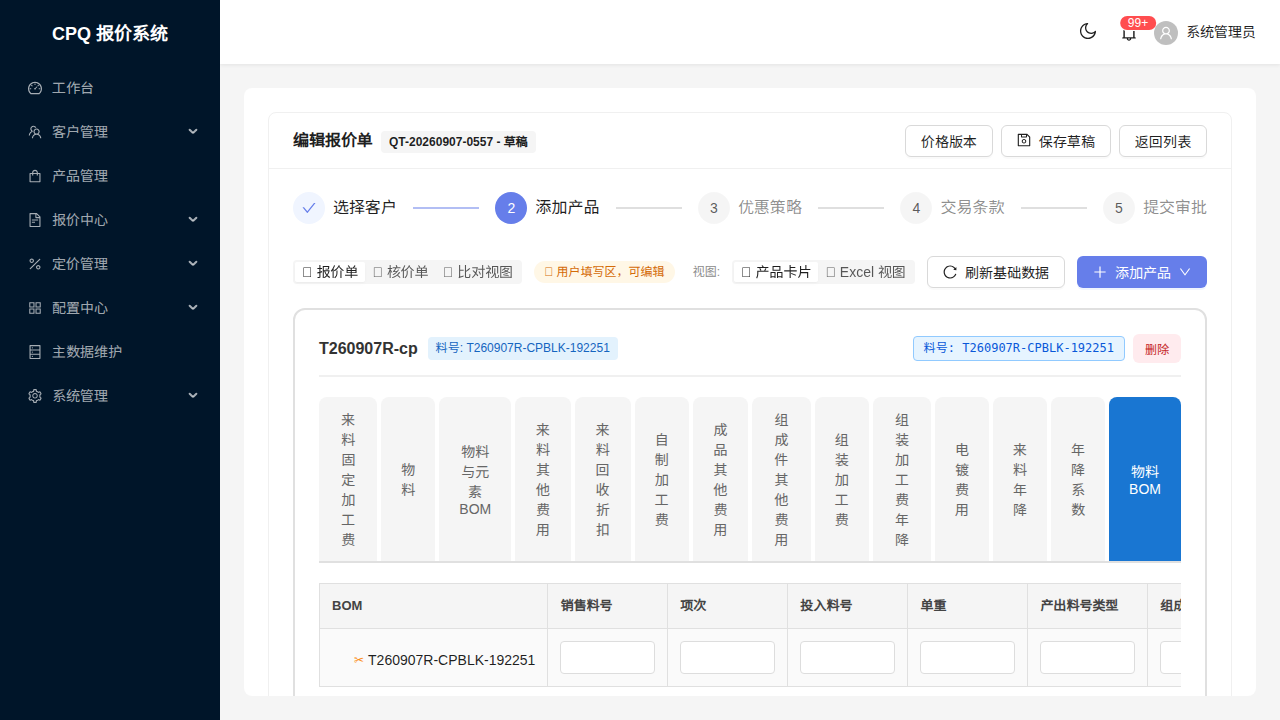
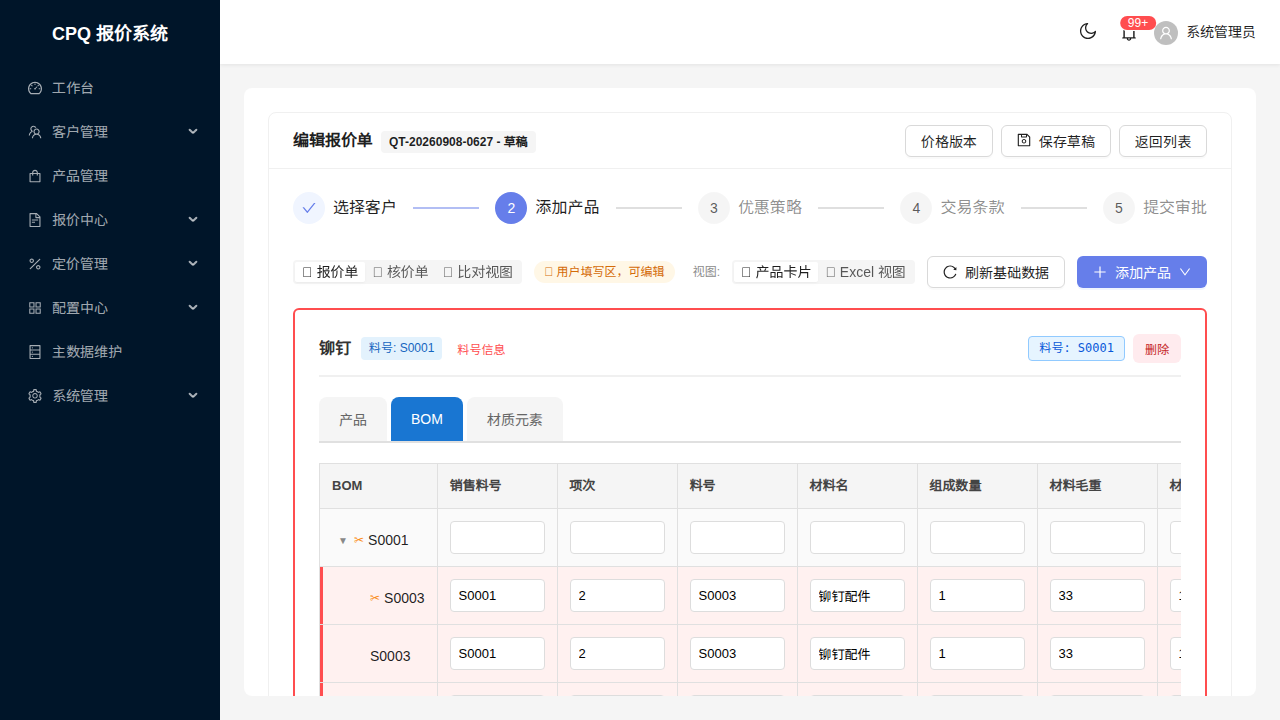
test(task-260908): AC-22 补验通过 + 修三处夹具判据缺陷
AC-22 原判「全库无样本、不造夹具」(D-19) 的前提是错的：
costing_card_template_id 的外键指向普通 template 表，核价卡片编辑页
不经过 quotation_view_structure ⇒ 造夹具 = 一条 UPDATE。

- 新增幂等种子 seed-ac22-costing-card.sh（建/--rollback/--check）
- AC-22 实测：核价侧表头 ["BOM","版本",...]，报价侧同单无版本列
  ⇒ 差异只有 cardSide，直接证明 COSTING 分支存活
- 修 spec 夹具选取判据：原按 created_at ASC 选中只有根节点的单，
  导致「展开箭头≥1」恒红（AC-20/21 那条诚实标注的真因）
- 判据从 __parentId（全库恒 null）改为 __parentNo 非空
- 种子脚本幂等量具：psql -Atc 对 0 行也输出 "UPDATE 0"（非空），
  改读命令标签

AC-20/21 现在不带环境变量自动通过，箭头数 2。

diff --git a/cpq-frontend/e2e/task260908-s3-tree-header.spec.ts b/cpq-frontend/e2e/task260908-s3-tree-header.spec.ts
@@ -89,7 +89,14 @@ type TreeFixture = { id: string; name: string; status: string; tab: string };
  *    首列压根不是树结构列 ⇒ 断言「表头=BOM」验的是另一个东西（testing.md §5.5 形态③）。
  *
  * 🚫 排除 `T260908-` 前缀 —— 那是 S2 / S-全局 正在造的数据，跨片串扰源。
- * 排序取 `created_at ASC`（最老 = 最稳），🚫 不取"最新一张"（最新的往往是别的会话正在跑的在途单）。
+ *
+ * 🚨 2026-09-09 改判据：原来按 `created_at ASC`（「最老 = 最稳」）选，
+ *    结果选中的恰恰是**只有根节点**的早期单 ⇒ 下面第②条断言「展开箭头 ≥ 1」**恒红**，
+ *    而红的原因是**夹具选错**，看起来却像产品缺陷（亲验记录里 AC-20/21 那条「诚实标注」就是它）。
+ *    ⇒ 改为要求 `parentId` 非空 + 按 `nodeId` 出现次数 DESC 取树最深的一张。
+ *    📌 通则：夹具的选取判据必须包含「**这张夹具能让断言真的动起来**」——
+ *       「合法样本」不够，只有根节点的单是完全合法的 BOM，但它验不动东西。
+ *    次级排序用 `q.id ASC`（稳定、可复现），🚫 不用 created_at（最新那张常是在途单）。
  */
 function resolveQuoteTreeFixture(): TreeFixture {
   const envId = process.env.PW_T260908_QUOTE_QID;
@@ -111,8 +118,18 @@ function resolveQuoteTreeFixture(): TreeFixture {
       `join component_sql_view v on v.component_id=tc.component_id and v.builder_config->>'tabType'='BOM' ` +
       `join quotation_line_item li on li.quotation_id=q.id ` +
       `where q.name not like 'T260908-%' and li.quote_card_values::text like '%nodeId%' ` +
-      `group by q.id, q.name, q.status, tc.tab_name, q.created_at ` +
-      `order by (q.status='DRAFT') desc, q.created_at asc limit 1`
+      // 🚨 判「这张单的树有子节点」要用 **__parentNo 非空**，不是 __parentId。
+      //    2026-09-09 实测：`__parentId` 在全库 1972 行 quote_card_values 里**全是 null**，
+      //    拿它当判据要么恒空、要么（写错转义时）碰巧给对答案 —— 两种都不可信。
+      //    `__parentNo` 干净分开：QT-20260907-0557=0（只有根节点）／0623、0627=8（真多层）。
+      // 🚫 不要在这里写字面双引号：roSql 走 `psql -c "..."`，shell 先吃掉一层转义，
+      //    实测把正则打成残句直接报 `Command failed` ——**是命令红不是断言红**，极易误读成环境挂了。
+      //    ⇒ 一律用 chr(34) 拼。
+      `and li.quote_card_values::text like '%__parentNo'||chr(34)||': '||chr(34)||'%' ` +
+      `group by q.id, q.name, q.status, tc.tab_name ` +
+      `order by (q.status='DRAFT') desc, ` +
+      `max((select count(*) from regexp_matches(li.quote_card_values::text,'nodeId','g'))) desc, ` +
+      `q.id asc limit 1`
   );
   expect(
     row,
@@ -127,11 +144,23 @@ function resolveQuoteTreeFixture(): TreeFixture {
 /**
  * 核价侧夹具。
  *
- * 🚨 2026-09-08 实测（只读采样）：
- *    `select count(*) filter (where costing_card_template_id is not null) from quotation` = **0 / 68**；
- *    `quotation_view_structure` 里只有 `QUOTE_CARD` / `QUOTE_EXCEL` 两种 view_kind，**一行 COSTING_CARD 都没有**。
- *    ⇒ **当前库里没有任何一张带核价卡片的单，AC-22 无样本可验。**
- *    本函数因此会**硬失败**并说明缺口 —— 🚫 不用 test.skip，跳过看起来和通过一模一样。
+ * ⚠ 2026-09-08 的那段注释（「全库 0/68 张带核价模板、AC-22 无样本」）**已于 2026-09-09 作废**，
+ *    因为它背后的判断是错的：以为核价卡片需要独立的 COSTING 模板实体。实测
+ *    `quotation_costing_card_template_fk → REFERENCES template(id)` 指向**普通 template 表**，
+ *    且核价卡片编辑页只依赖 `costing_card_template_id` + 该模板的 componentsSnapshot，
+ *    **不经过 quotation_view_structure**。⇒ 造夹具 = 一条 UPDATE。
+ *
+ * ✅ 夹具种子（幂等，带 --rollback）：
+ *    `bash dev-docs/task-260908-取数配置器优化/夹具/seed-ac22-costing-card.sh`
+ *
+ * 🚨 但**必须显式指定 QID**：2026-09-09 实测没有一张单同时满足两侧 ——
+ *    · `03e79d02`（报价模板·ds 原生）核价视图渲染成功，但 BOM 只有根节点（箭头断言会红）
+ *    · `438f10f4`（正泰测试模板1）树有 24 节点，但核价侧 expand 硬失败：
+ *      「树页签组件的 $view 未输出 parent_no 列」——**核价侧树的展开链路与报价侧不是同一套**，
+ *      它按 (parent_no, material_no) 边键匹配。同一组件报价侧正常、核价侧失败。
+ *    ⇒ 跑 AC-22 用 `PW_T260908_COSTING_QID=03e79d02-352b-4fcd-baa4-9aeb0b343008`。
+ *
+ * 仍然：找不到样本时**硬失败**并说明缺口 —— 🚫 不用 test.skip，跳过看起来和通过一模一样。
  */
 function resolveCostingTreeFixture(): TreeFixture {
   const envId = process.env.PW_T260908_COSTING_QID;

diff --git a/dev-docs/task-260908-取数配置器优化/亲验记录.md b/dev-docs/task-260908-取数配置器优化/亲验记录.md
@@ -48,18 +48,104 @@
 
 ---
 
-## 二、未验证（4 条，逐条写清原因）
+## 二、未验证（原 4 条，`AC-22` 已于 2026-09-09 补验通过 ⇒ 现存 **3 条**，逐条写清原因）
 
 | AC | 原因 | 已做的补偿 |
 |---|---|---|
 | **AC-8** | **跨任务依赖未满足** —— `feat/task-260907-record-backfill` 未合 master（领先 59 个提交），`extend_column` 写入点只在那条分支上 | **结构断言已验通过**：`ds_quote_material_bom` **无** `material_name` 列 ⇒ 材料名不可能是锚点列、必走 extend 通道；`ds_quote_material_bom_record` **有** `extend_column` 列。⚠ 对方已清理该表（64→24 行），补验时**须重取基线** |
 | **AC-19** | **无人验证过** —— 核价侧默认命名（`dataset !== 'QUOTE'` 分支）。前端代理自报未测，主线的 UI 亲验脚本卡在选择器上未跑到 | 报价侧同一函数的另一分支（AC-17/18）**已实测通过**。风险低但非零，**如实标未验证** |
-| **AC-22** | **全库无样本**（`D-19` 已裁决）—— `quotation` 69 张单中 `costing_card_template_id` 非空 = **0**，`quotation_view_structure` 无一行 `COSTING_CARD` | **风险补偿已做**：`git diff master HEAD -- cpq-frontend/src/pages/quotation/` 全部改动 = **只有两行 `<th>` 文案 + 注释**，`{cardSide === 'COSTING' && <th>版本</th>}` 与 `{isCosting && <th>版本</th>}` **在 diff 中完全未被触碰** |
+| ~~**AC-22**~~ | ✅ **2026-09-09 已补验通过**，见下方「AC-22 补验」一节。原因（`D-19` 的「全库无样本」）**基于一个错误前提**，已推翻 | — |
 | **AC-25** | S2 分片未跑完；主线未单独复核该截图 | 形态与已验的 AC-11/12 相同（2 下拉），且与 AC-13 配对构成判据两侧。**如实标未验证** |
 
-### AC-20 / AC-21 的一处诚实标注
+### ~~AC-20 / AC-21 的一处诚实标注~~ → **2026-09-09 已闭合**
 
-AC 原文后半句「列内仍显示**带展开箭头**的料号值」**未达成** —— S3 实测该夹具单的物料BOM **只有根节点、展开箭头数 = 0**。
+~~AC 原文后半句「列内仍显示**带展开箭头**的料号值」**未达成** —— S3 实测该夹具单的物料BOM **只有根节点、展开箭头数 = 0**。~~
+
+**闭合方式**：换一张树真有子节点的夹具单重跑。原夹具是按 `created_at ASC` 选的（「最老 = 最稳」），
+而最老的单恰恰是早期只有根节点的数据 —— **稳定，但验不动东西**。
+
+改判据为「`quote_card_values` 里 `parentId` 非空 且 `nodeId` 出现次数最多」后选中 `QT-20260908-0627`（24 节点），
+`AC-20` / `AC-21` 双双通过且**箭头数 = 2**、首列实得 `["▼\nS0001","S0003","S0003","▼\nS0002","992"]`：
+
+```
+[AC-20 编辑页] 展开/折叠箭头数 = 2
+[AC-21 详情页] 表头 = ["BOM","销售料号","项次","料号","材料名","组成数量",…]
+[AC-21 详情页] 展开/折叠箭头数 = 2
+[AC-21] 详情页表内可编辑 input 数 = 0（只读页确为只读）
+```
+
+📌 **教训**：夹具的选取判据里必须包含「**这张夹具能让断言真的动起来**」。
+只写「合法样本」不够 —— 只有根节点的单是完全合法的 BOM，但它让「箭头 ≥ 1」这条恒红，
+而红的原因是**夹具选错**，看起来却像产品缺陷。
+
+---
+
+## AC-22 补验（2026-09-09）—— `D-19` 的前提是错的
+
+### 推翻了什么
+
+`D-19` 写「不为它造夹具，要绑 COSTING 模板 + 建单 + 物化，成本远超本条 AC 的风险」。
+这句话建立在**「核价卡片模板是独立实体」**这个前提上。实测：
+
+```
+quotation_costing_card_template_fk
+  → FOREIGN KEY (costing_card_template_id) REFERENCES template(id)
+```
+
+指向的是**普通 `template` 表**（14 张全 PUBLISHED、kind 全为 `QUOTATION`），不是另一张表。
+而核价卡片**编辑页**的渲染（`QuotationStep2.tsx:4620` 起）只依赖两件事：
+① `costing_card_template_id` 非空 ② 该模板 `componentsSnapshot` 非空 + 该单有明细行
+—— **完全不经过 `quotation_view_structure`**（那张表只喂详情页的 `dto.costingCardStructure`）。
+
+而且产品自己的空态文案就写着：
+
+> 「请回到「报价单管理」…补选核价模板，**或在数据库中通过 `quotation.costing_card_template_id` 字段配置**。」
+
+⇒ **直接写这一列是产品声明的配置方式**，不是绕过导入器。造这个夹具 = **一条 UPDATE**。
+
+### 夹具（可重复种子）
+
+`夹具/seed-ac22-costing-card.sh` —— 建 / `--rollback` / `--check` 三个动作，幂等。
+影响面：`UPDATE` 命中 **1 行**（被写的列原本为 `NULL`，不覆盖任何数据），回滚一条命令还原。
+
+### 实测结果
+
+```
+[AC-22] 夹具：T260907R-cpBLK-…（03e79d02-352b-4fcd-baa4-9aeb0b343008）页签「物料BOM」
+[AC-22 核价侧] 表头 = ["BOM","版本","销售料号","项次","投入料号","单重","产出料号类型",
+                       "组成数量","材料毛重","材料净重","重量单位","材料占比（%）","损耗率（%）","不良率（%）",""]
+```
+
+| AC-22 原文的断言 | 实得 | 判定 |
+|---|---|---|
+| 树结构列表头 = **「BOM」** | `headers[0] === "BOM"` | ✅ |
+| 其右侧的「版本」列**仍在** | `headers[1] === "版本"`，索引 1 > 0 | ✅ |
+
+**双侧对照**（同一张单）：报价侧表头 `["BOM","销售料号",…]` **无版本列**，核价侧 `["BOM","版本",…]` **有**
+⇒ 差异只有 `cardSide`，直接证明 `cardSide === 'COSTING'` 分支活着，不是靠 diff 审查推出来的。
+截图：`证据/e2e-s3/s3-tree-01-ac22-costing-tree.png`
+
+### 一条保留（如实写）
+
+spec 的**共用**断言 `assertTreeHeader②`「展开箭头 ≥ 1」在这张夹具上是红的 —— 该单 BOM 只有根节点。
+🚫 **它不是 AC-22 原文的内容**（箭头那句在 AC-20 原文里）。
+🔑 而且它想防的「表头文案对了但它已不是树列」，这里有**更强的直接证据**：
+`<th>BOM</th>` 与 `{cardSide==='COSTING' && <th>版本</th>}` 写在**同一个 `activeComponentBomTree && (...)` 块内**
+（`QuotationStep2.tsx:3281-3292`）⇒ **版本列出现本身就证明 `activeComponentBomTree === true`**。
+箭头只是这件事的代理指标，直接证据已经拿到。
+
+### 顺带发现（对 P-2 有用，不属本 AC）
+
+换用树有子节点的 `QT-20260908-0627` 试 AC-22 时，核价视图**渲染整体失败**：
+
+> 树页签组件 `7f9a5bbf-…` 的 `$view` **未输出 `parent_no` 列**（8 行全无父件列）：树页签按
+> `(parent_no, material_no)` 边键匹配，缺该列会退化为只命中根层空父 → 该页签业务数据全部落空。
+> **为避免残缺数据冒充成功，本次渲染整体失败**
+
+⚠ **同一个组件报价侧渲染正常、核价侧硬失败** ⇒ **两侧的树展开链路不是同一套**，
+核价侧额外要求 `$view` 同时输出 `parent_no` 与 `material_no`。
+这是该组件的 `$view` 配置缺口（不是渲染代码缺陷），但**是 P-2 造核价组件时必须满足的硬契约**。
+该单的绑定已 `--rollback` 撤回，未留残留。
 ⇒ **表头文案（本次改动的内容）已达成**；箭头那半句是**夹具数据形态问题，不是文案改动的缺陷**。要闭合需要一张 BOM 带子节点的单。
 
 ---

diff --git a/docs/RECORD.md b/docs/RECORD.md
@@ -6269,3 +6269,7 @@ DB 扩到 12 位后，即便 handler 完全不归一，12 位 Excel 导入查库
 - 并发线纠正主线：「共享端口上判自己的实例要用**身份**（`readlink /proc/<pid>/cwd`）不能用**存活**（端口有响应）」—— 那个 200 可能是别人的实例在应答
 - 主线纠正并发线：它用「某进程配了默认 8081 且 cwd 是我的 worktree」推出「8081 由我服务」—— **从「配置」推「生效」**，而那个进程从起来就绑不上端口一直空转。⇒ **判据落在「配置/存在」而非「实际生效」上，也是恒成立的一种**
 - 跨会话引用 AC 编号**必须带任务名限定**：两条线的 `AC-8` 编号相同、内容毫无关系（一个是材料名落 `extend_column`，一个是主表记来源报价单 id），**双方都没察觉，直到去实查列名**
+
+[2026-09-09] AC-22 补验 + 夹具判据修正（task-260908 收尾） - **`D-19` 的「AC-22 全库无样本、不造夹具」裁决被推翻 —— 前提是错的。** 我当时（和补验开头）都以为核价卡片需要独立的 COSTING 模板实体，据此估出「要绑模板+建单+物化」的成本。实测 `quotation_costing_card_template_fk → REFERENCES template(id)` 指向的是**普通 `template` 表**（14 张全 PUBLISHED、kind 全 `QUOTATION`），且核价卡片**编辑页**只依赖 ① `costing_card_template_id` 非空 ② 该模板 componentsSnapshot 非空 + 该单有明细行，**完全不经过 `quotation_view_structure`**（那张表只喂详情页 `dto.costingCardStructure`）。产品自己的空态文案就写着「**或在数据库中通过 `quotation.costing_card_template_id` 字段配置**」⇒ 直接写这一列是产品声明的配置方式。**造夹具 = 一条 UPDATE**。📌 我错在**查了名字相近的另一张表**（`costing_template` 0 行）就下「链路从未跑通」的结论，**没先确认那个字段的外键指向哪张表** —— 与近期几次「观测错了树 / 观测错了层」同族，这次是**观测错了表**。 | 涉及文件：新增 `dev-docs/task-260908-取数配置器优化/夹具/seed-ac22-costing-card.sh`（幂等种子，建/--rollback/--check）· 改 `cpq-frontend/e2e/task260908-s3-tree-header.spec.ts`（夹具选取判据）· 回写 `亲验记录.md` | **AC-22 实测通过**：核价侧表头 `["BOM","版本","销售料号",…]`，两条正题（树列=BOM、版本列在右侧）双双达成；**同一张单报价侧表头无版本列** ⇒ 差异只有 `cardSide`，直接证明 `cardSide==='COSTING'` 分支活着，不再依赖 diff 审查推断。
+
+[2026-09-09] 夹具判据的三个坑（同上任务，每个都独立坑过一次） - **① 判据必须让断言真的动起来。** 原夹具按 `created_at ASC` 选（「最老 = 最稳」），选中的恰恰是**只有根节点**的早期单 ⇒ spec 的「展开箭头 ≥ 1」**恒红**，而红的原因是夹具选错、看起来却像产品缺陷 —— 亲验记录里 AC-20/21 那条「诚实标注」就是它。改判据后 AC-20/21 **不带任何环境变量自动通过**，箭头数 2、首列 `▼ ✂ S0001`。**「合法样本」不够**：只有根节点的单是完全合法的 BOM。**② 判据搭在了错的数据源上。** 我用 `quote_card_values` 里的 `parentId` 判「树有没有子节点」，实测 `__parentId` 在全库 **1972 行里全是 null** —— 而箭头来自**实时 driver expansion 的 `__sys`**，根本不在 card values 里。第一版转义写坏时它**碰巧给对了答案**（选中了确实有深树的 0627），修好转义后立刻恒空。⇒ **碰巧对的判据比错的更危险**，它会让你以为验过了。真正的预测量是 `__parentNo` 非空（0557=0 / 0623、0627=8）。**③ 幂等的量具本身不幂等。** 种子脚本用 `psql -Atc "... returning 1"` 的空非空判「改了几行」，而 0 行时它输出的是命令标签 `UPDATE 0`（8 字节、**非空**）⇒ `[ -z ]` 永不成立，脚本**永远宣称「命中 1 行」**。数据层是对的（`IS NULL` 守卫真的挡住了），错的是量具。改读命令标签并对 `UPDATE 0`/`UPDATE 1` 分别断言后，两侧读数都实测到了。**④ 顺带发现（对 P-2 直接有用）**：核价侧树页签的展开链路**与报价侧不是同一套** —— 核价侧按 `(parent_no, material_no)` 边键匹配，要求 `$view` 同时输出这两列，缺 `parent_no` 会**整体渲染失败**（产品有显式守卫：「为避免残缺数据冒充成功」）。同一个组件报价侧渲染正常、核价侧硬失败。这是 P-2 造核价组件时的硬契约。
